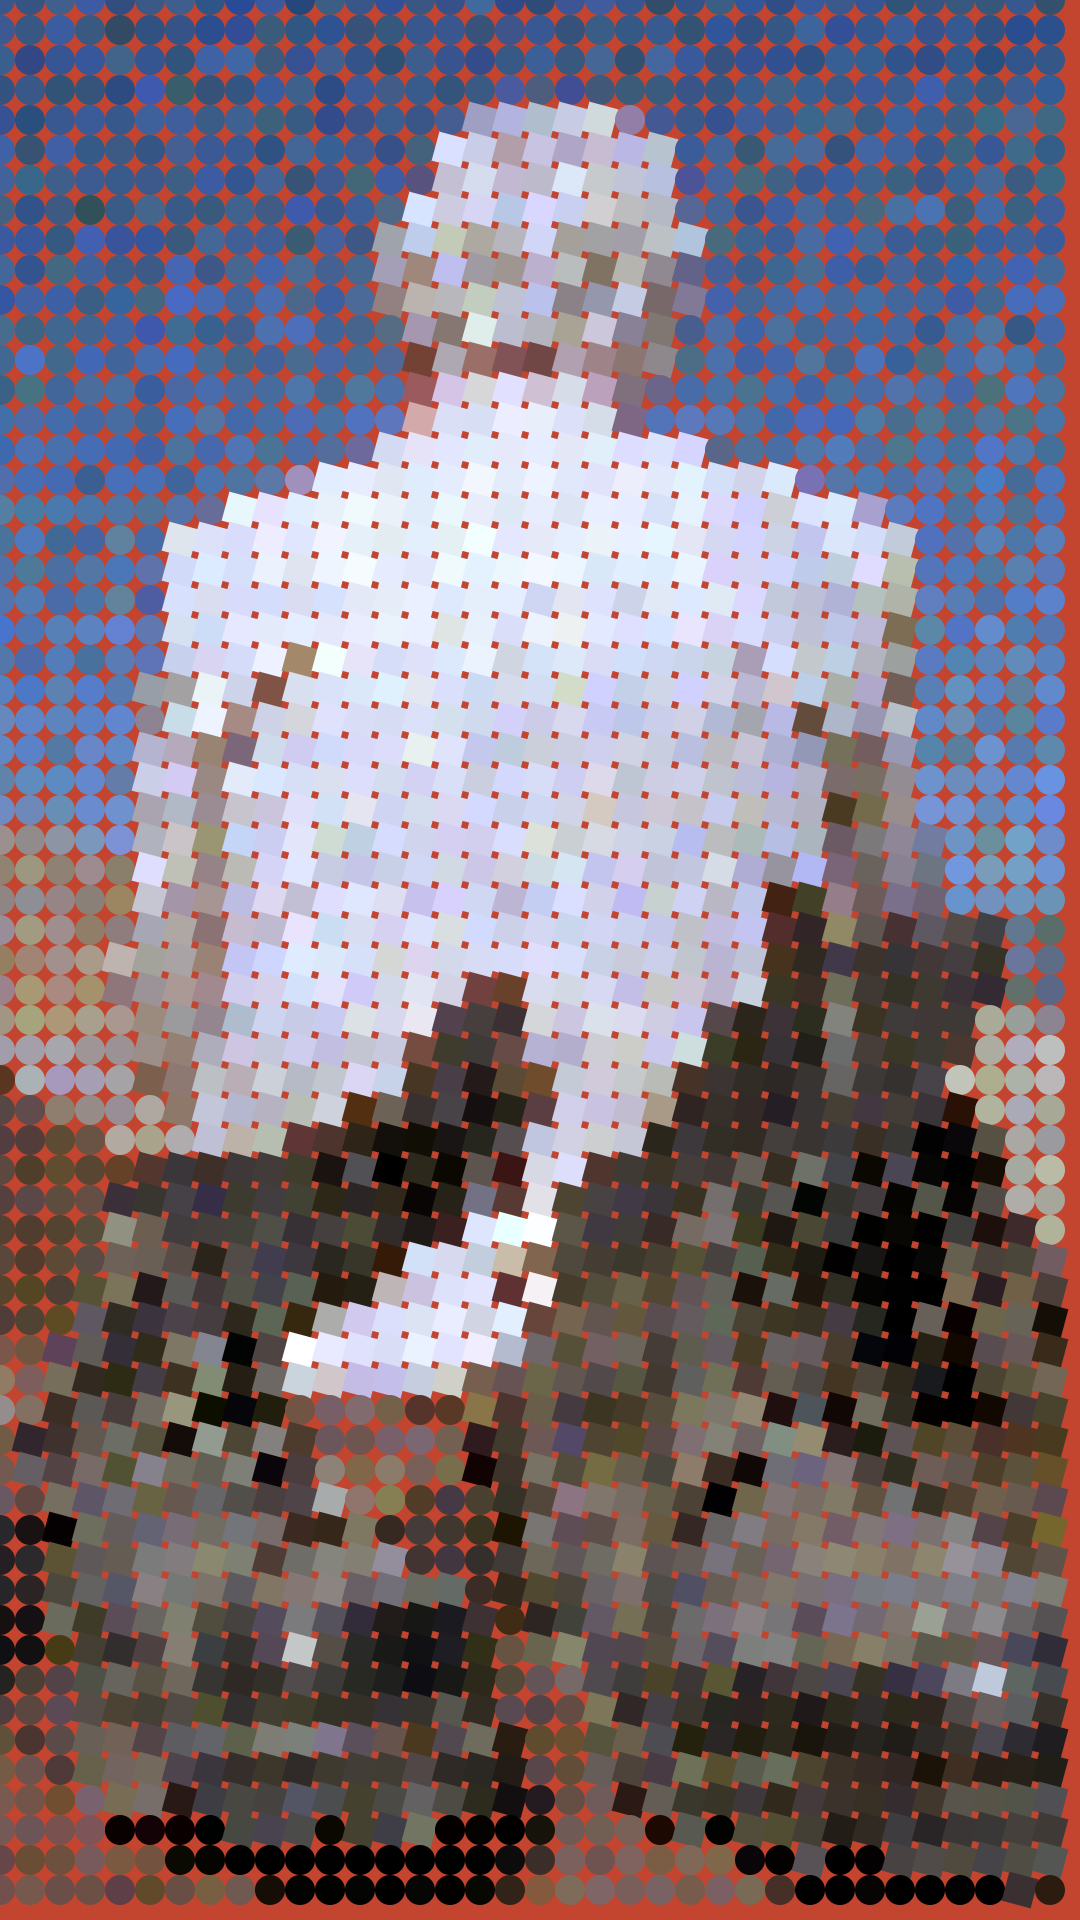
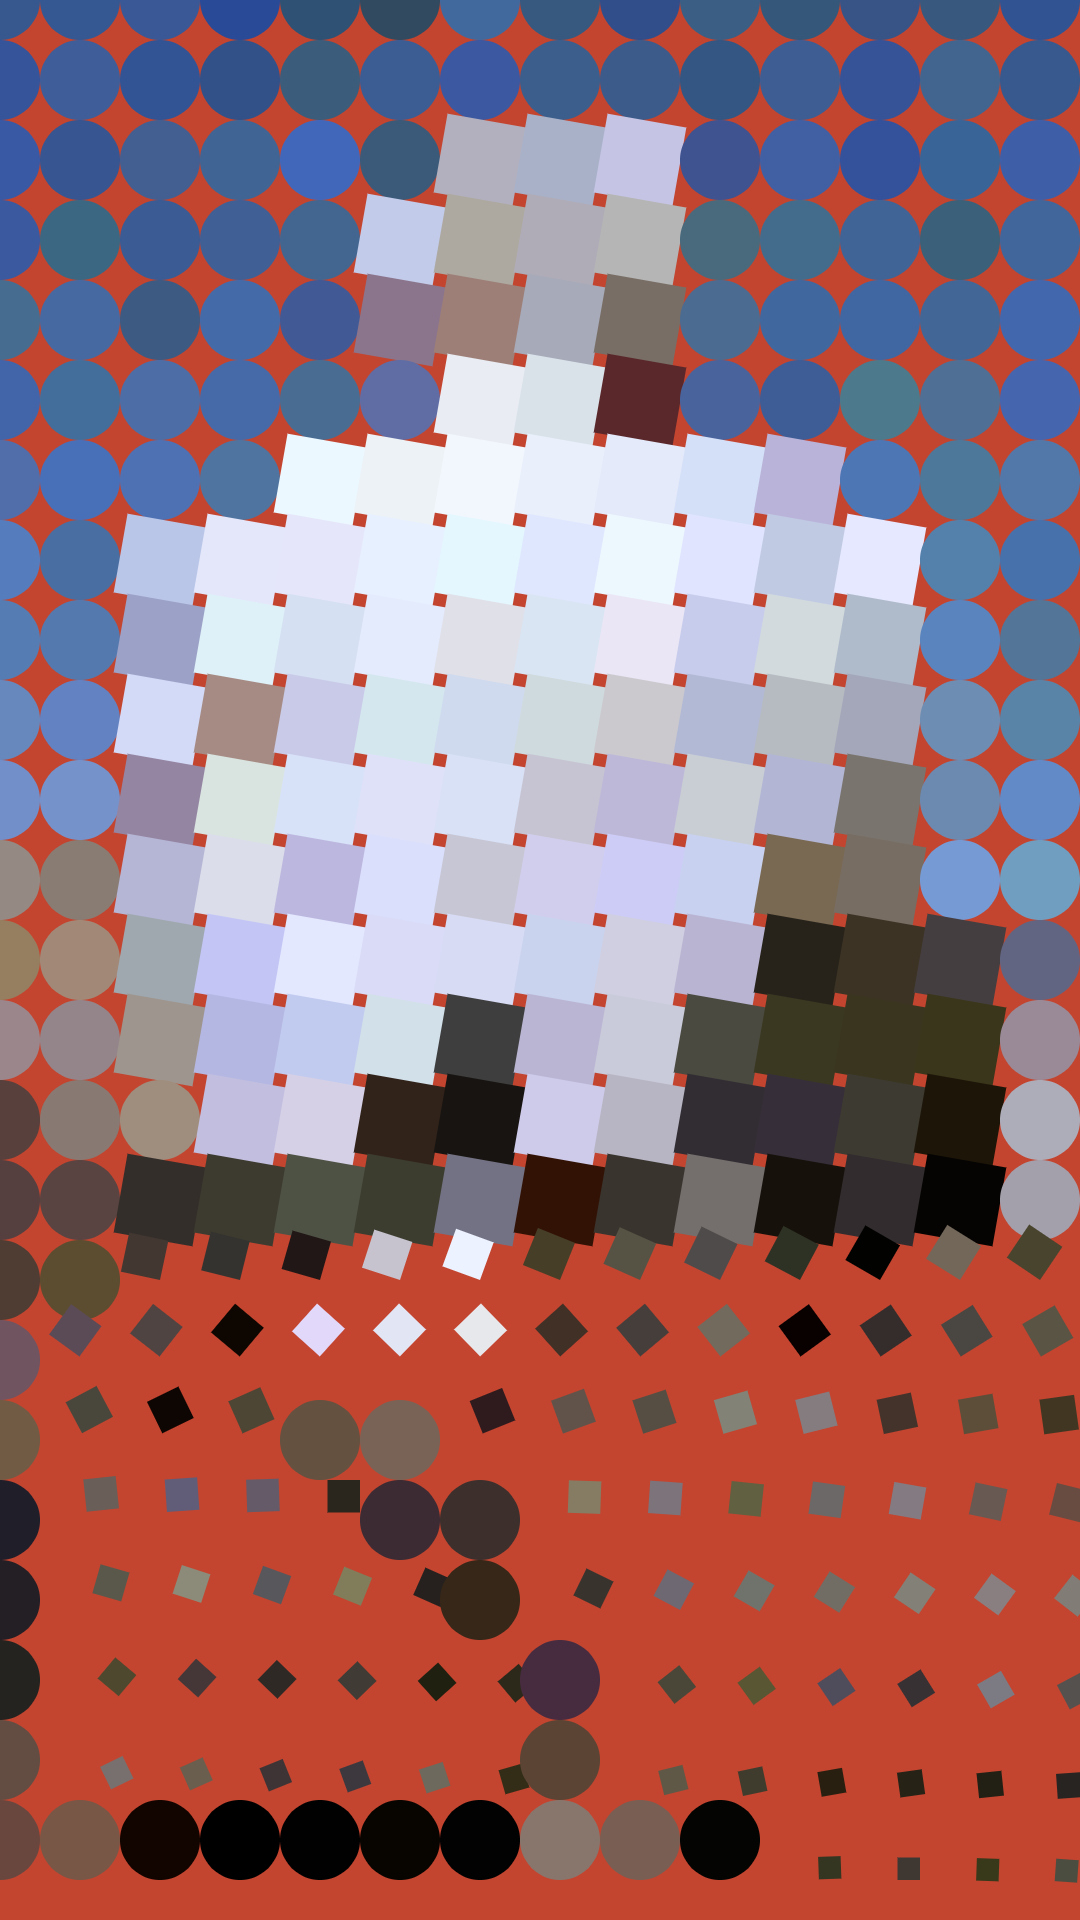
Fade not working out as planned

diff --git a/sketch.js b/sketch.js
@@ -2,8 +2,12 @@ let sourceImg=null;
 let maskImg=null;
 let currentRow=0;
 
+//Mask elements to begin a rotate and scale disolve.
+let fadeCount=0;
+let fadeRowBegin = 15;
+let rot=10;
 //Render Quality settings: 'low' 'med' 'high'
-let quality = "high";
+let quality = "low";
 let diamondSize = 10;
 let circleSize = 10;
 let spacing = 10;
@@ -33,8 +37,8 @@ switch(quality){
 }
 //Image loading for operations
 function preload() {
-  sourceImg = loadImage("input_2.jpg");
-  maskImg = loadImage("mask_2.png");
+  sourceImg = loadImage("input_1.jpg");
+  maskImg = loadImage("mask_1.png");
 }
 
 //Canvas and image information setup.
@@ -61,14 +65,24 @@ function draw () {
     if(mask[0] > 128) {
       let halfSize = spacing/2;
       push();
+      if (currentRow > fadeRowBegin){
+      rot = rot + 2;
+      fadeCount = fadeCount + 1;
+      fadeDiamondSize = map(currentRow, 0, 30, diamondSize, 5);
       translate(x,y);
-      rotate(15);
+      rotate(rot);
+      rect(0-halfSize, 0-halfSize, fadeDiamondSize, fadeDiamondSize);
+    } else {
+      translate(x,y);
+      rotate(rot);
       rect(0-halfSize, 0-halfSize, diamondSize, diamondSize);
+    }
       pop();
     }
     else {
       ellipse(x, y, circleSize, circleSize);
     }
+    //rowFade();
   }
   currentRow = currentRow + 1;
   if(currentRow *  spacing>1920) {
@@ -77,6 +91,14 @@ function draw () {
     // saveBlocksImages();
   }
 }
+
+//Starts the scaling and rotating of elements at fade begin point
+/*function rowFade(){
+  if (currentRow > fadeRowBegin){
+  let fadeCount = fadeCount + 1;
+  map(y, y, 24, diamondSize, 0);
+  }
+}*/
 
 function keyTyped() {
   if (key == '!') {

diff --git a/README.md b/README.md
@@ -1,5 +1,7 @@
 ## Creative Coding 2: Custom Pixel
 
+For this fading experiment I am going to have to go back on as I cant quite get the fade gradual and lined up, and it seems to be ruining the aesthetic of the photos too much anyway.
+
 I was looking through a magazine one day and saw people holding the tools of their trade, always facing the camera. Always prominently showing the person and their trade or hobby clearly. I wanted to take these things and obscure them as much as possible. Anton, smoking his weed out front of his band's lockout, and Marie in front of the graffiti that she loves so much. I felt these images put more of the mystery on the person rather than the object, while at the same time dissolving the ego.  
 
 In this experiment I am beginning to literally dissolve the individual themselves. I plan on doing a bit of a scale and fade away on the diamonds that makeup the subject's body. Thus further eroding the individual (yay) yet trying to retain some of the original intent of the photo.
